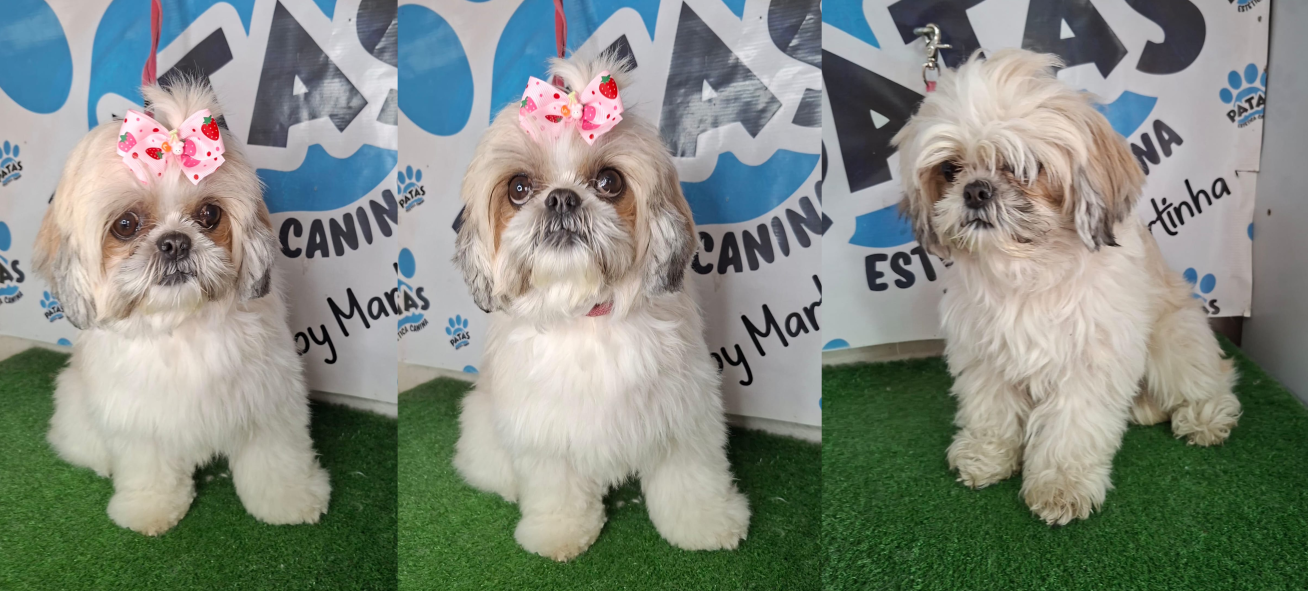
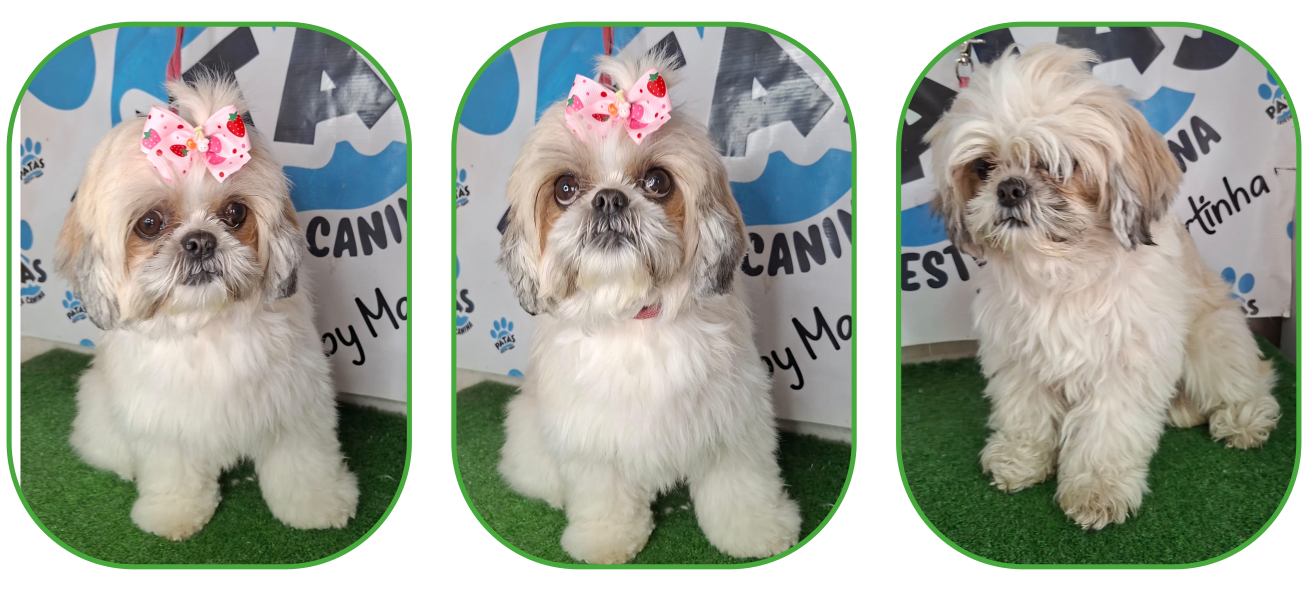
1.3

diff --git a/style.css b/style.css
@@ -56,13 +56,14 @@ hr{
     box-sizing: content-box;
 }
 p{
-    width: 100%;
+    width: 96%;
     color: rgb(81, 81, 81);
-    font-size: 150%;
-    margin-right: 20px;
-    margin-left: 20px;
+    font-size: 125%;
+    margin-right: 2%;
+    margin-left: 2%;
 }
 .class2{
     width: 96%;
-    margin: 2%;
+    margin: 1%;
+
 }
